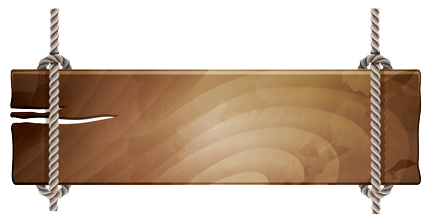
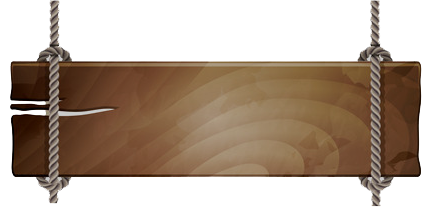
個人中心差背景圖片定位

diff --git a/css/memberSystem.css b/css/memberSystem.css
@@ -1,15 +1,12 @@
-* {
-  outline: 1px solid red; }
-
 img {
   width: 100%; }
 
 body {
-  height: 100vh;
+  height: 150vh;
   background-image: url(../img/cabin.png);
   background-size: 100%;
   background-repeat: no-repeat;
-  background-position: center top;
+  background-position: right;
   font-family: "Microsoft JhengHei"; }
 
 .msNav {
@@ -23,7 +20,7 @@ body {
   .msNav h2 {
     font-size: 30px;
     font-weight: bold;
-    padding-bottom: 20px; }
+    padding-top: 20px; }
   .msNav ul {
     padding: 30px 20px;
     background-image: url(../img/woodframe.png);
@@ -59,15 +56,17 @@ body {
     .msProfile {
       padding: 0; } }
   .msProfile h3 {
-    padding: 50px 0 20px;
+    padding: 40px 20px 20px;
     font-size: 20px;
     font-weight: bold; }
     @media all and (max-width: 991px) {
       .msProfile h3 {
         text-align: center; } }
   .msProfile > .row {
-    padding: 50px;
-    background: rgba(226, 242, 250, 0.3); }
+    padding: 20px;
+    background: rgba(226, 242, 250, 0.3);
+    border-radius: 4px;
+    box-shadow: 0 3px 6px rgba(0, 0, 0, 0.16); }
     @media all and (max-width: 991px) {
       .msProfile > .row {
         padding: 20px; } }
@@ -85,14 +84,16 @@ body {
     .msProfile > .row .msProfile__btn {
       padding: 20px 0; }
     .msProfile > .row .msProfile__text ul li {
-      padding: 0 50px;
+      padding: 0 10px;
       font-size: 20px; }
       .msProfile > .row .msProfile__text ul li:not(:first-child) {
-        padding-top: 50px; }
+        padding-top: 30px; }
   .msProfile .msPoint {
     padding: 20px;
     margin-top: 50px;
-    background: rgba(226, 242, 250, 0.3); }
+    background: rgba(226, 242, 250, 0.3);
+    border-radius: 4px;
+    box-shadow: 0 3px 6px rgba(0, 0, 0, 0.16); }
     .msProfile .msPoint h4 {
       padding-bottom: 10px;
       font-size: 20px;
@@ -102,13 +103,16 @@ body {
       .msProfile .msPoint .msPoint--use li {
         padding: 8px 0; }
     .msProfile .msPoint .msPoint--get {
-      padding-top: 20px; }
+      padding-top: 0px; }
       .msProfile .msPoint .msPoint--get .row {
         justify-content: space-between; }
         .msProfile .msPoint .msPoint--get .row .msPoint__item {
-          max-width: 200px;
+          padding-top: 10px;
+          max-width: 100px;
           height: 30%;
           width: 30%;
           overflow: hidden; }
+          .msProfile .msPoint .msPoint--get .row .msPoint__item p {
+            text-align: center; }
 
[2 lines of base64/hex data omitted]

diff --git a/sass/memberSystem.scss b/sass/memberSystem.scss
@@ -3,7 +3,7 @@
 @import "mixin/_mixin-memberSystem.scss";
 
 *{
-    outline: 1px solid red;
+    // outline: 1px solid red;
 }
 img{
     width: 100%;
@@ -11,12 +11,15 @@ img{
 body{
     // position: fixed;
     // width: 100%;
-    height: 100vh;
+    height: 150vh;
+    
     background-image: url(../img/cabin.png);
     background-size: 100%;
     background-repeat: no-repeat;
-    background-position: center top;
+    background-position: right;
     font-family: "Microsoft JhengHei";
+    // height: 100%;
+
 
 }
 .msNav{
@@ -29,7 +32,7 @@ body{
     }
     h2{
         @include f30b();
-        @include pBottom(20);
+        @include pTop(20);
     }
     ul{ 
         
@@ -75,7 +78,7 @@ body{
         padding: 0;
     }
     h3{
-        padding: 50px 0 20px;
+        padding: 40px 20px 20px;
         @include f20b();
         @include rwd(medium){
             text-align: center;
@@ -83,8 +86,10 @@ body{
     }
     //共用
     >.row{
-        padding: 50px;
+        padding: 20px;
         background:rgba(226,242,250,.3);
+        @include br4;
+        box-shadow: $shadow;
         @include rwd(medium){
             padding: 20px;
         }
@@ -107,10 +112,10 @@ body{
         .msProfile__text{
             ul{
                 li{
-                    padding: 0 50px;
+                    padding: 0 10px;
                     @include f20();
                     &:not(:first-child){
-                        @include pTop(50);
+                        @include pTop(30);
                     }
                 }
             }
@@ -120,7 +125,8 @@ body{
         padding: 20px;
         @include mTop(50);
         background:rgba(226,242,250,.3);
-
+        @include br4;
+        box-shadow: $shadow;
         h4{
             @include pBottom(10);
             @include f20b();
@@ -132,19 +138,23 @@ body{
             }
         }
         .msPoint--get{
-            @include pTop(20);
+            @include pTop(0);
+            
             .row{
                 justify-content: space-between;
                 .msPoint__item{
+                    @include pTop(10);
                     $size:30%;
-                    max-width: 200px;
+                    max-width: 100px;
                     height: $size;
                     width: $size;
                     overflow: hidden;
+                    p{
+                        text-align: center;
+                    }
                 }
 
             }
         }
     }
 }
-// @include o;

diff --git a/memberSystem.html b/memberSystem.html
@@ -26,7 +26,7 @@
             <div class="row">
                 <div>
                     <div class="msProfile__img">
-                        <img src='https://picsum.photos/200/300/?random' alt=''>
+                        <img src='img/profilePic.jpg' alt='會員照片'>
                     </div>
                     <div class="msProfile__btn">
                         <a href="" class="btn-main-l">修改個人資料</a>
@@ -34,8 +34,8 @@
                 </div>
                 <div class="msProfile__text">
                     <ul>
-                        <li>暱稱：<span>MAX</span></li>
-                        <li>帳號：<span>max@gmail.com</span></li>
+                        <li>暱稱：<span>Meg</span></li>
+                        <li>帳號：<span>meg19870807@gmail.com</span></li>
                         <li>紅利點數：<span>180點</span></li>
                     </ul>
                 </div>
@@ -53,13 +53,16 @@
                     <h4>如何獲取紅利？</h4>
                     <div class="row">
                         <div class="msPoint__item">
-                            <img src='img/journal.png' alt=''>
+                            <p>評價行程</p>
+                            <img src='img/tree.png' alt=''>
                         </div>
                         <div class="msPoint__item">
-                            <img src='img/journal.png' alt=''>
+                            <p>撰寫日誌</p>
+                            <img src='img/journal1.png' alt=''>
                         </div>
                         <div class="msPoint__item">
-                            <img src='img/journal.png' alt=''>
+                            <p>玩小遊戲</p>
+                            <img src='img/mouse.png' alt=''>
                         </div>
                     </div>
                 </div>
